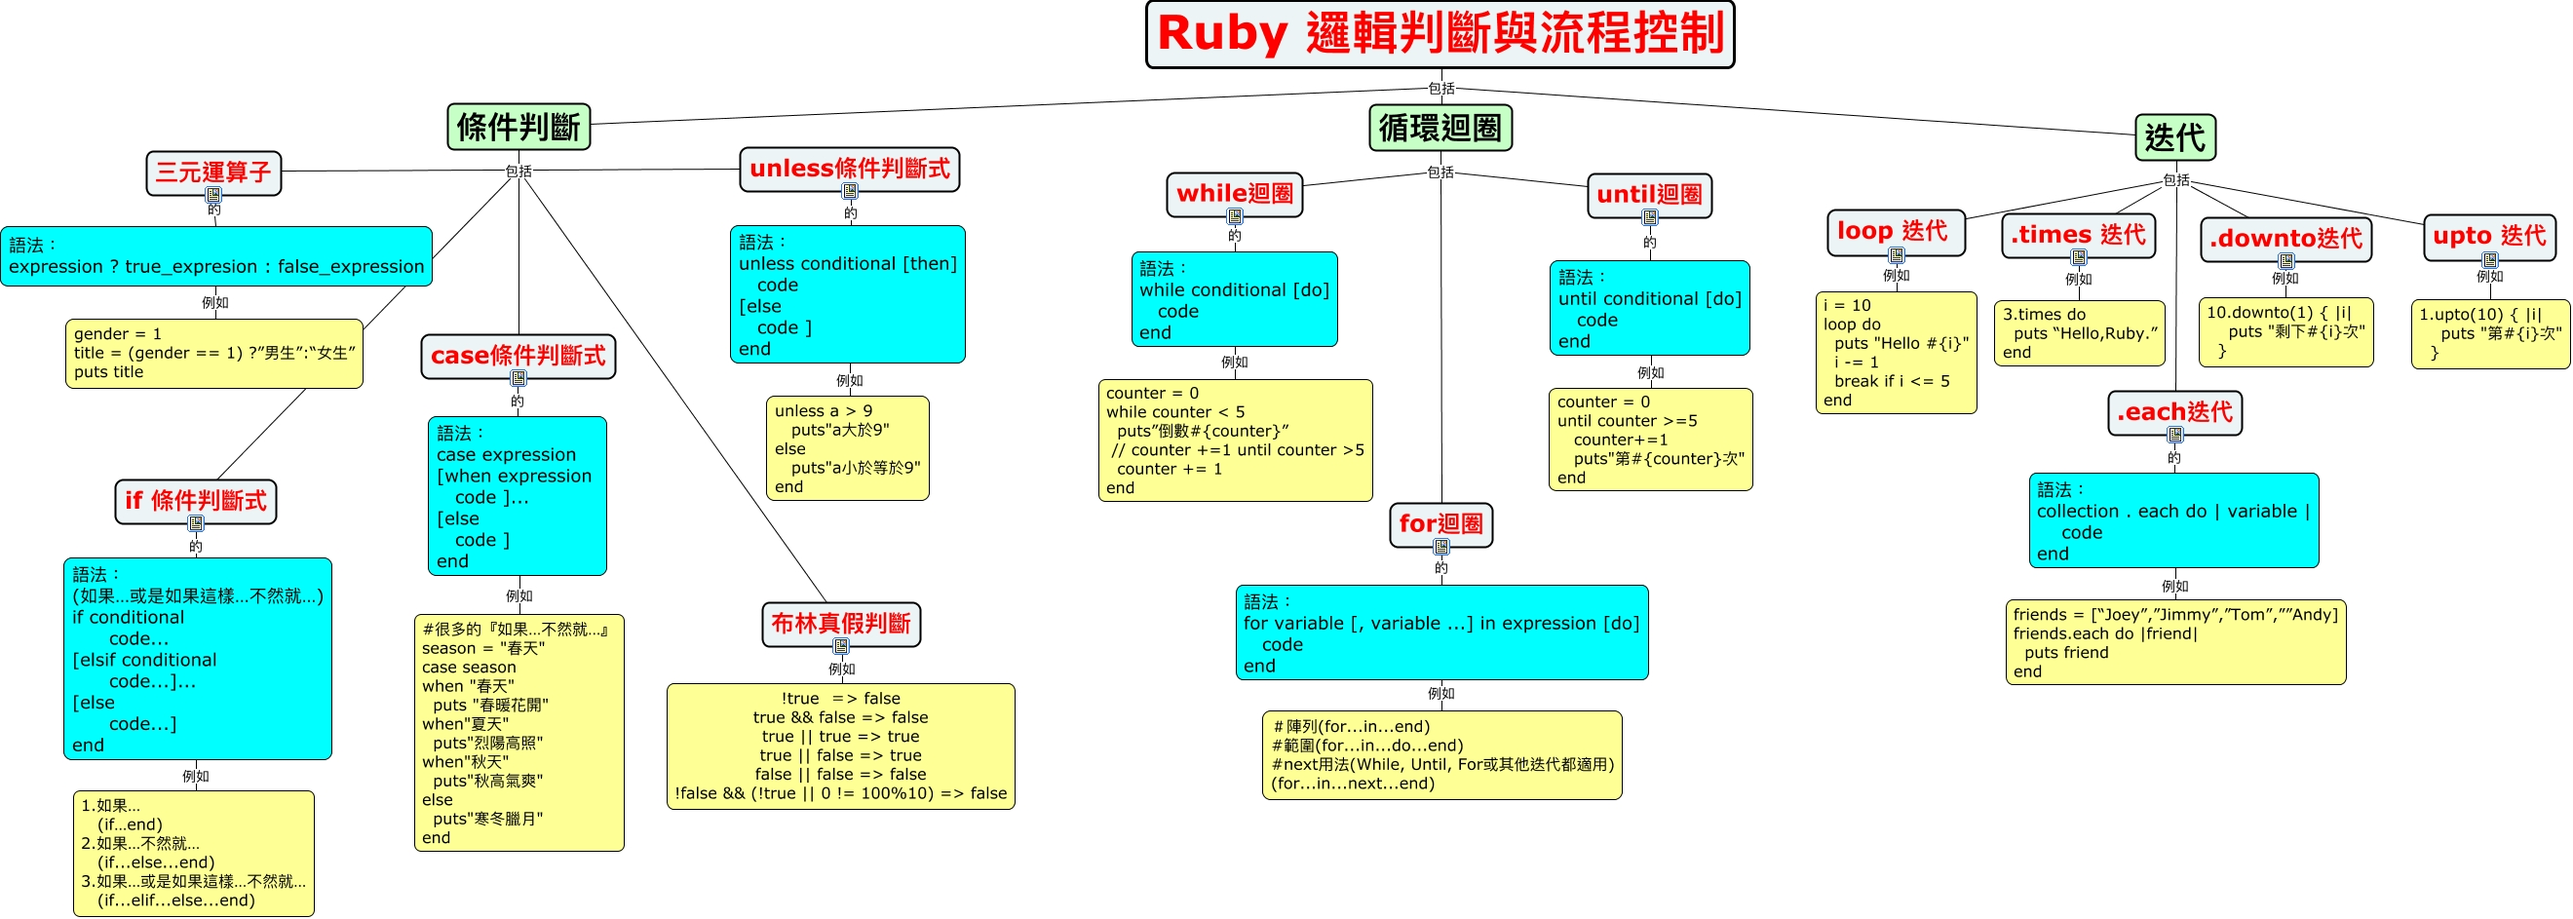
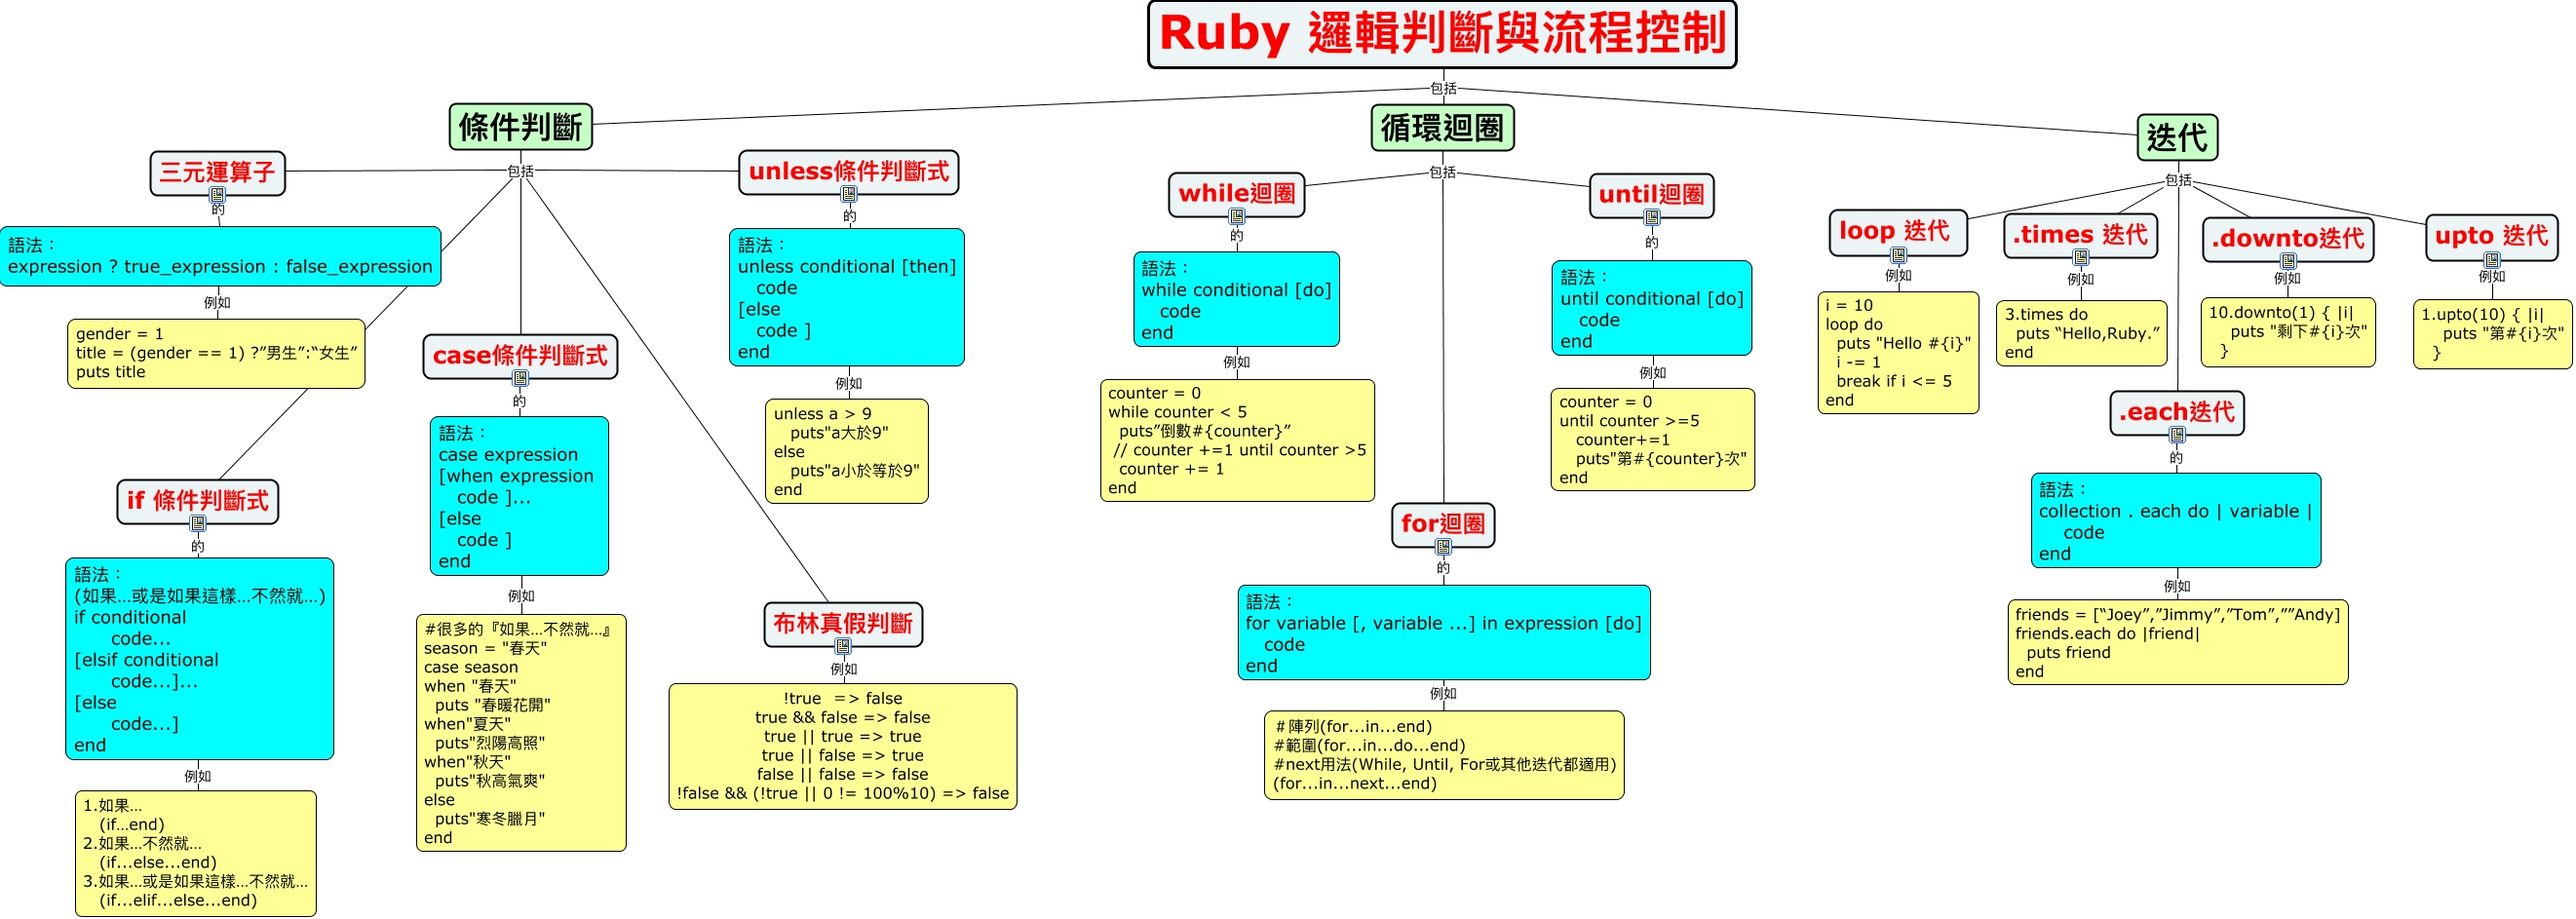
更改錯字

diff --git a/Ruby 邏輯判斷與流程控制.html b/Ruby 邏輯判斷與流程控制.html
@@ -2,8 +2,8 @@
 <HEAD>
   <TITLE>Ruby 邏輯判斷與流程控制.html</TITLE>
   <meta NAME = "GENERATOR"          CONTENT = "IHMC CmapTools vr. 4.12 ">
-  <meta NAME = "KEYWORDS"           CONTENT = "陳咨諺, 概念图, cmap, CmapTools, IHMC, Ruby 邏輯判斷與流程控制,  .each迭代,  語法： (如果…或是如果這樣…不然就…) if conditional code... [elsif conditional code...]... [else code...] end,  布林真假判斷,  迭代,  if 條件判斷式,  friends = [“Joey”,”Jimmy”,”Tom”,””Andy] friends.each do |friend| puts friend end,  i = 10 loop do puts "Hello #{i}" i -= 1 break if i &#60= 5 end,  語法： expression ? true_expresion : false_expression,  語法： case expression [when expression code ]... [else code ] end,  語法： unless conditional [then] code [else code ] end,  .downto迭代,  語法： for variable [, variable ...] in expression [do] code end,  ＃陣列(for...in...end) #範圍(for...in...do...end) #next用法(While, Until, For或其他迭代都適用) (for...in...next...end),  case條件判斷式,  語法： until conditional [do] code end,  until迴圈,  unless a &#62 9 puts"a大於9" else puts"a小於等於9" end,  三元運算子,  Ruby 邏輯判斷與流程控制,  !true ＝&#62 false true && false =&#62 false true || true =&#62 true true || false =&#62 true false || false =&#62 false !false && (!true || 0 != 100%10) =&#62 false">
-  <meta NAME = "DESCRIPTION"        CONTENT = "此概念图以 IHMC CmapTools 创建, 内含信息有关于: Ruby 邏輯判斷與流程控制, Ruby 邏輯判斷與流程控制 包括 條件判斷, upto 迭代 例如 1.upto(10) { |i| puts "第#{i}次" }, if 條件判斷式 的 語法： (如果…或是如果這樣…不然就…) if conditional code... [elsif conditional code...]... [else code...] end, 三元運算子 的 語法： expression ? true_expresion : false_expression, 條件判斷 包括 if 條件判斷式, 條件判斷 包括 unless條件判斷式, .times 迭代 例如 3.times do puts “Hello,Ruby.” end, for迴圈 的 語法： for variable [, variable ...] in expression [do] code end, 循環迴圈 包括 while迴圈, case條件判斷式 的 語法： case expression [when expression code ]... [else code ] end, 語法： while conditional [do] code end 例如 counter = 0 while counter &#60 5 puts”倒數#{counter}” // counter +=1 until counter &#625 counter += 1 end, 條件判斷 包括 三元運算子, 語法： unless conditional [then] code [else code ] end 例如 unless a &#62 9 puts"a大於9" else puts"a小於等於9" end, 布林真假判斷 例如 !true ＝&#62 false true && false =&#62 false true || true =&#62 true true || false =&#62 true false || false =&#62 false !false && (!true || 0 != 100%10) =&#62 false, 迭代 包括 loop 迭代, 迭代 包括 .each迭代, 循環迴圈 包括 until迴圈, unless條件判斷式 的 語法： unless conditional [then] code [else code ] end, 條件判斷 包括 布林真假判斷, 迭代 包括 upto 迭代">
+  <meta NAME = "KEYWORDS"           CONTENT = "陳咨諺, 概念图, cmap, CmapTools, IHMC, Ruby 邏輯判斷與流程控制,  .each迭代,  語法： (如果…或是如果這樣…不然就…) if conditional code... [elsif conditional code...]... [else code...] end,  布林真假判斷,  迭代,  if 條件判斷式,  friends = [“Joey”,”Jimmy”,”Tom”,””Andy] friends.each do |friend| puts friend end,  i = 10 loop do puts "Hello #{i}" i -= 1 break if i &#60= 5 end,  語法： expression ? true_expression : false_expression,  語法： case expression [when expression code ]... [else code ] end,  語法： unless conditional [then] code [else code ] end,  .downto迭代,  語法： for variable [, variable ...] in expression [do] code end,  ＃陣列(for...in...end) #範圍(for...in...do...end) #next用法(While, Until, For或其他迭代都適用) (for...in...next...end),  case條件判斷式,  語法： until conditional [do] code end,  until迴圈,  unless a &#62 9 puts"a大於9" else puts"a小於等於9" end,  三元運算子,  Ruby 邏輯判斷與流程控制,  !true ＝&#62 false true && false =&#62 false true || true =&#62 true true || false =&#62 true false || false =&#62 false !false && (!true || 0 != 100%10) =&#62 false">
+  <meta NAME = "DESCRIPTION"        CONTENT = "此概念图以 IHMC CmapTools 创建, 内含信息有关于: Ruby 邏輯判斷與流程控制, Ruby 邏輯判斷與流程控制 包括 條件判斷, upto 迭代 例如 1.upto(10) { |i| puts "第#{i}次" }, if 條件判斷式 的 語法： (如果…或是如果這樣…不然就…) if conditional code... [elsif conditional code...]... [else code...] end, 三元運算子 的 語法： expression ? true_expression : false_expression, 條件判斷 包括 if 條件判斷式, 條件判斷 包括 unless條件判斷式, .times 迭代 例如 3.times do puts “Hello,Ruby.” end, for迴圈 的 語法： for variable [, variable ...] in expression [do] code end, 循環迴圈 包括 while迴圈, case條件判斷式 的 語法： case expression [when expression code ]... [else code ] end, 語法： while conditional [do] code end 例如 counter = 0 while counter &#60 5 puts”倒數#{counter}” // counter +=1 until counter &#625 counter += 1 end, 條件判斷 包括 三元運算子, 語法： unless conditional [then] code [else code ] end 例如 unless a &#62 9 puts"a大於9" else puts"a小於等於9" end, 布林真假判斷 例如 !true ＝&#62 false true && false =&#62 false true || true =&#62 true true || false =&#62 true false || false =&#62 false !false && (!true || 0 != 100%10) =&#62 false, 迭代 包括 loop 迭代, 迭代 包括 .each迭代, 循環迴圈 包括 until迴圈, unless條件判斷式 的 語法： unless conditional [then] code [else code ] end, 條件判斷 包括 布林真假判斷, 迭代 包括 upto 迭代">
   <meta NAME = "AUTHOR"             CONTENT = "IHMC CmapTools">
   <meta HTTP-EQUIV = "Content-Type" CONTENT = "text/html; charset = UTF-8">
   <script LANGUAGE="JavaScript1.2">
@@ -205,7 +205,7 @@
       </td>
     </tr>
   </table>
-此概念图以 IHMC CmapTools 创建, 内含信息有关于: Ruby 邏輯判斷與流程控制, Ruby 邏輯判斷與流程控制 包括 條件判斷, upto 迭代 例如 1.upto(10) { |i| puts "第#{i}次" }, if 條件判斷式 的 語法： (如果…或是如果這樣…不然就…) if conditional code... [elsif conditional code...]... [else code...] end, 三元運算子 的 語法： expression ? true_expresion : false_expression, 條件判斷 包括 if 條件判斷式, 條件判斷 包括 unless條件判斷式, .times 迭代 例如 3.times do puts “Hello,Ruby.” end, for迴圈 的 語法： for variable [, variable ...] in expression [do] code end, 循環迴圈 包括 while迴圈, case條件判斷式 的 語法： case expression [when expression code ]... [else code ] end, 語法： while conditional [do] code end 例如 counter = 0 while counter &#60 5 puts”倒數#{counter}” // counter +=1 until counter &#625 counter += 1 end, 條件判斷 包括 三元運算子, 語法： unless conditional [then] code [else code ] end 例如 unless a &#62 9 puts"a大於9" else puts"a小於等於9" end, 布林真假判斷 例如 !true ＝&#62 false true && false =&#62 false true || true =&#62 true true || false =&#62 true false || false =&#62 false !false && (!true || 0 != 100%10) =&#62 false, 迭代 包括 loop 迭代, 迭代 包括 .each迭代, 循環迴圈 包括 until迴圈, unless條件判斷式 的 語法： unless conditional [then] code [else code ] end, 條件判斷 包括 布林真假判斷, 迭代 包括 upto 迭代
+此概念图以 IHMC CmapTools 创建, 内含信息有关于: Ruby 邏輯判斷與流程控制, Ruby 邏輯判斷與流程控制 包括 條件判斷, upto 迭代 例如 1.upto(10) { |i| puts "第#{i}次" }, if 條件判斷式 的 語法： (如果…或是如果這樣…不然就…) if conditional code... [elsif conditional code...]... [else code...] end, 三元運算子 的 語法： expression ? true_expression : false_expression, 條件判斷 包括 if 條件判斷式, 條件判斷 包括 unless條件判斷式, .times 迭代 例如 3.times do puts “Hello,Ruby.” end, for迴圈 的 語法： for variable [, variable ...] in expression [do] code end, 循環迴圈 包括 while迴圈, case條件判斷式 的 語法： case expression [when expression code ]... [else code ] end, 語法： while conditional [do] code end 例如 counter = 0 while counter &#60 5 puts”倒數#{counter}” // counter +=1 until counter &#625 counter += 1 end, 條件判斷 包括 三元運算子, 語法： unless conditional [then] code [else code ] end 例如 unless a &#62 9 puts"a大於9" else puts"a小於等於9" end, 布林真假判斷 例如 !true ＝&#62 false true && false =&#62 false true || true =&#62 true true || false =&#62 true false || false =&#62 false !false && (!true || 0 != 100%10) =&#62 false, 迭代 包括 loop 迭代, 迭代 包括 .each迭代, 循環迴圈 包括 until迴圈, unless條件判斷式 的 語法： unless conditional [then] code [else code ] end, 條件判斷 包括 布林真假判斷, 迭代 包括 upto 迭代
 
 </noscript>
 
@@ -213,55 +213,55 @@
   <area shape="rect"
         href="1SB4SC4V8I12N7FG5I1XRItextIhtml"
         onClick="popUpEvt(event,'1SB4SC4V8I12N7FG5I1XRItextIhtml'); return false;"
-        coords="2223,437,2241,455">
+        coords="2225,437,2243,455">
   <area shape="rect"
         href="1SB4S0MQ1I1NB7NGVI1LKItextIhtml"
         onClick="popUpEvt(event,'1SB4S0MQ1I1NB7NGVI1LKItextIhtml'); return false;"
-        coords="854,654,872,672">
+        coords="856,654,874,672">
   <area shape="rect"
         href="1SB4RQ3KHI1C1X9Z9I1BHItextIhtml"
         onClick="popUpEvt(event,'1SB4RQ3KHI1C1X9Z9I1BHItextIhtml'); return false;"
-        coords="192,528,210,546">
+        coords="194,528,212,546">
   <area shape="rect"
         href="1SB5C612FIJSYB3HI63YItextIhtml"
         onClick="popUpEvt(event,'1SB5C612FIJSYB3HI63YItextIhtml'); return false;"
-        coords="2337,259,2355,277">
+        coords="2339,259,2357,277">
   <area shape="rect"
         href="1SB557L07I1QRNYSTI4PPItextIhtml"
         onClick="popUpEvt(event,'1SB557L07I1QRNYSTI4PPItextIhtml'); return false;"
-        coords="523,379,541,397">
+        coords="525,379,543,397">
   <area shape="rect"
         href="1SB4S5BTFI202J6T0I1TXItextIhtml"
         onClick="popUpEvt(event,'1SB4S5BTFI202J6T0I1TXItextIhtml'); return false;"
-        coords="1684,214,1702,232">
+        coords="1686,214,1704,232">
   <area shape="rect"
         href="1SB54PWC6IVKNL1SI4CGItextIhtml"
         onClick="popUpEvt(event,'1SB54PWC6IVKNL1SI4CGItextIhtml'); return false;"
-        coords="210,191,228,209">
+        coords="214,191,232,209">
   <area shape="rect"
         href="1SB4RRD0LI13SWPP0I1F9ItextIhtml"
         onClick="popUpEvt(event,'1SB4RRD0LI13SWPP0I1F9ItextIhtml'); return false;"
-        coords="1258,213,1276,231">
+        coords="1260,213,1278,231">
   <area shape="rect"
         href="1SB4RQSS6I1LFMRDZI1D6ItextIhtml"
         onClick="popUpEvt(event,'1SB4RQSS6I1LFMRDZI1D6ItextIhtml'); return false;"
-        coords="1470,552,1488,570">
+        coords="1472,552,1490,570">
   <area shape="rect"
         href="1SB4S1DLMIMCRMRGI1NBItextIhtml"
         onClick="popUpEvt(event,'1SB4S1DLMIMCRMRGI1NBItextIhtml'); return false;"
-        coords="863,187,881,205">
+        coords="862,190,880,208">
   <area shape="rect"
         href="1SB4SCD5DI1H4JXZMI1Y4ItextIhtml"
         onClick="popUpEvt(event,'1SB4SCD5DI1H4JXZMI1Y4ItextIhtml'); return false;"
-        coords="2124,255,2142,273">
+        coords="2126,255,2144,273">
   <area shape="rect"
         href="1SB4SBLZKI1JK1MSXI1X6ItextIhtml"
         onClick="popUpEvt(event,'1SB4SBLZKI1JK1MSXI1X6ItextIhtml'); return false;"
-        coords="1937,253,1955,271">
+        coords="1939,253,1957,271">
   <area shape="rect"
         href="1SB5C5PNMI86CVSXI63LItextIhtml"
         onClick="popUpEvt(event,'1SB5C5PNMI86CVSXI63LItextIhtml'); return false;"
-        coords="2546,258,2564,276">
+        coords="2548,258,2566,276">
 </map>
 
 <center>
